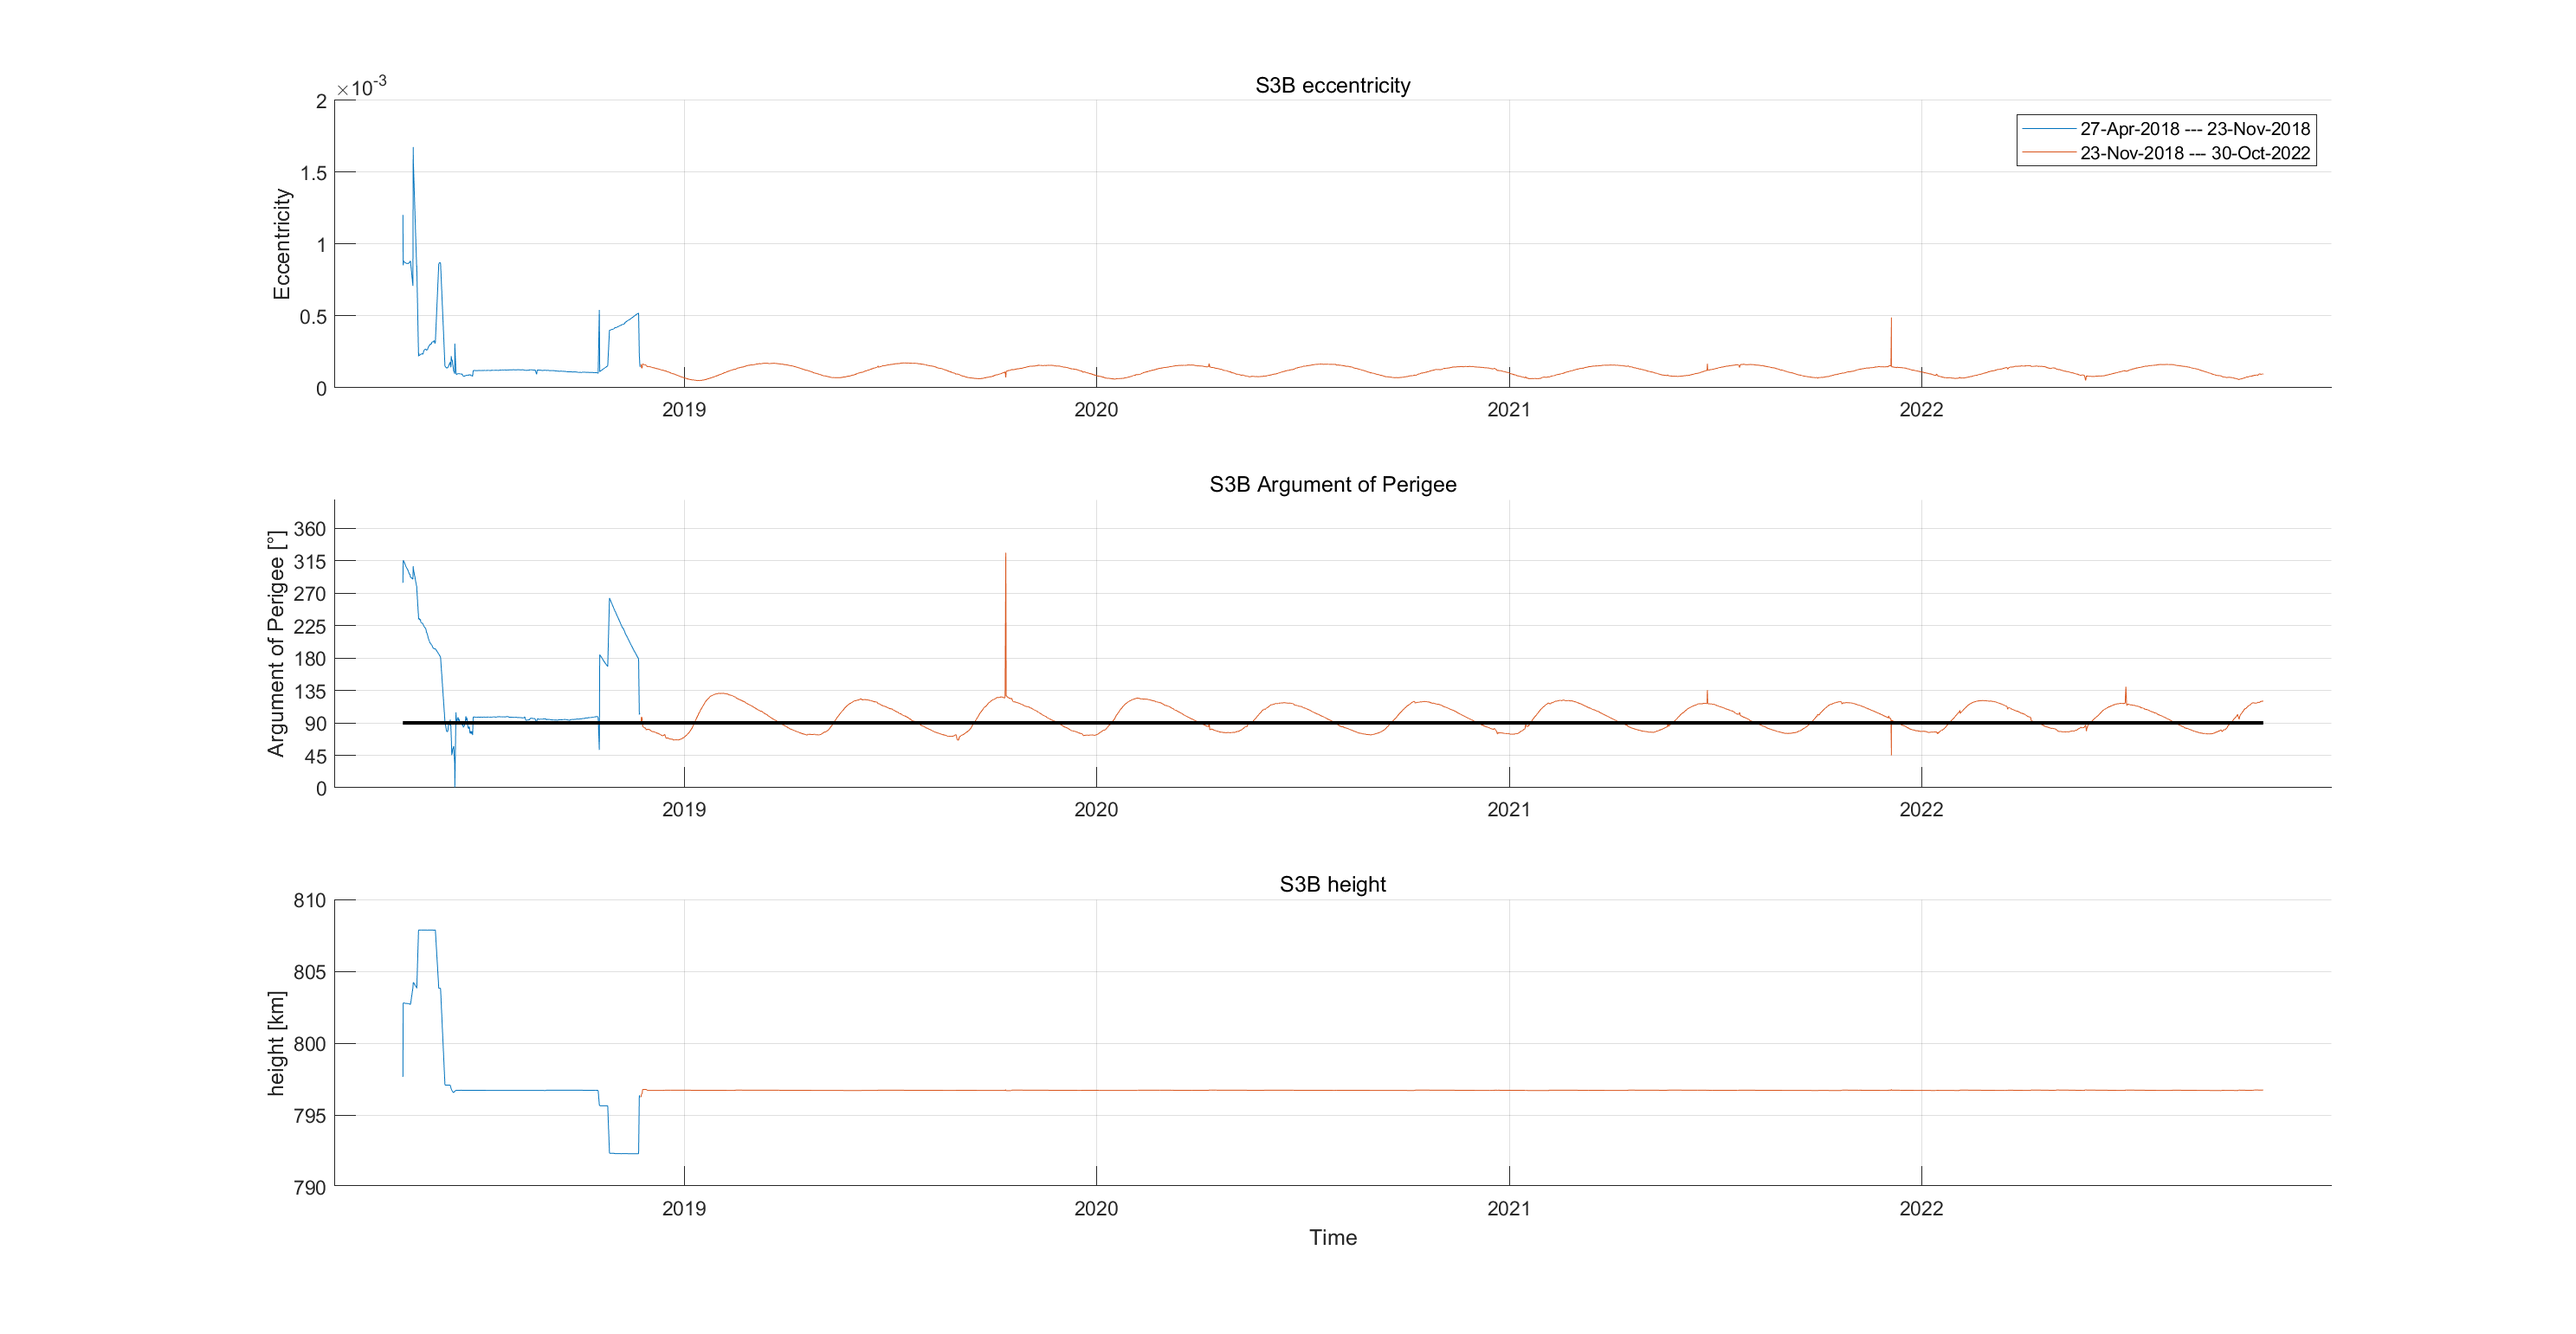
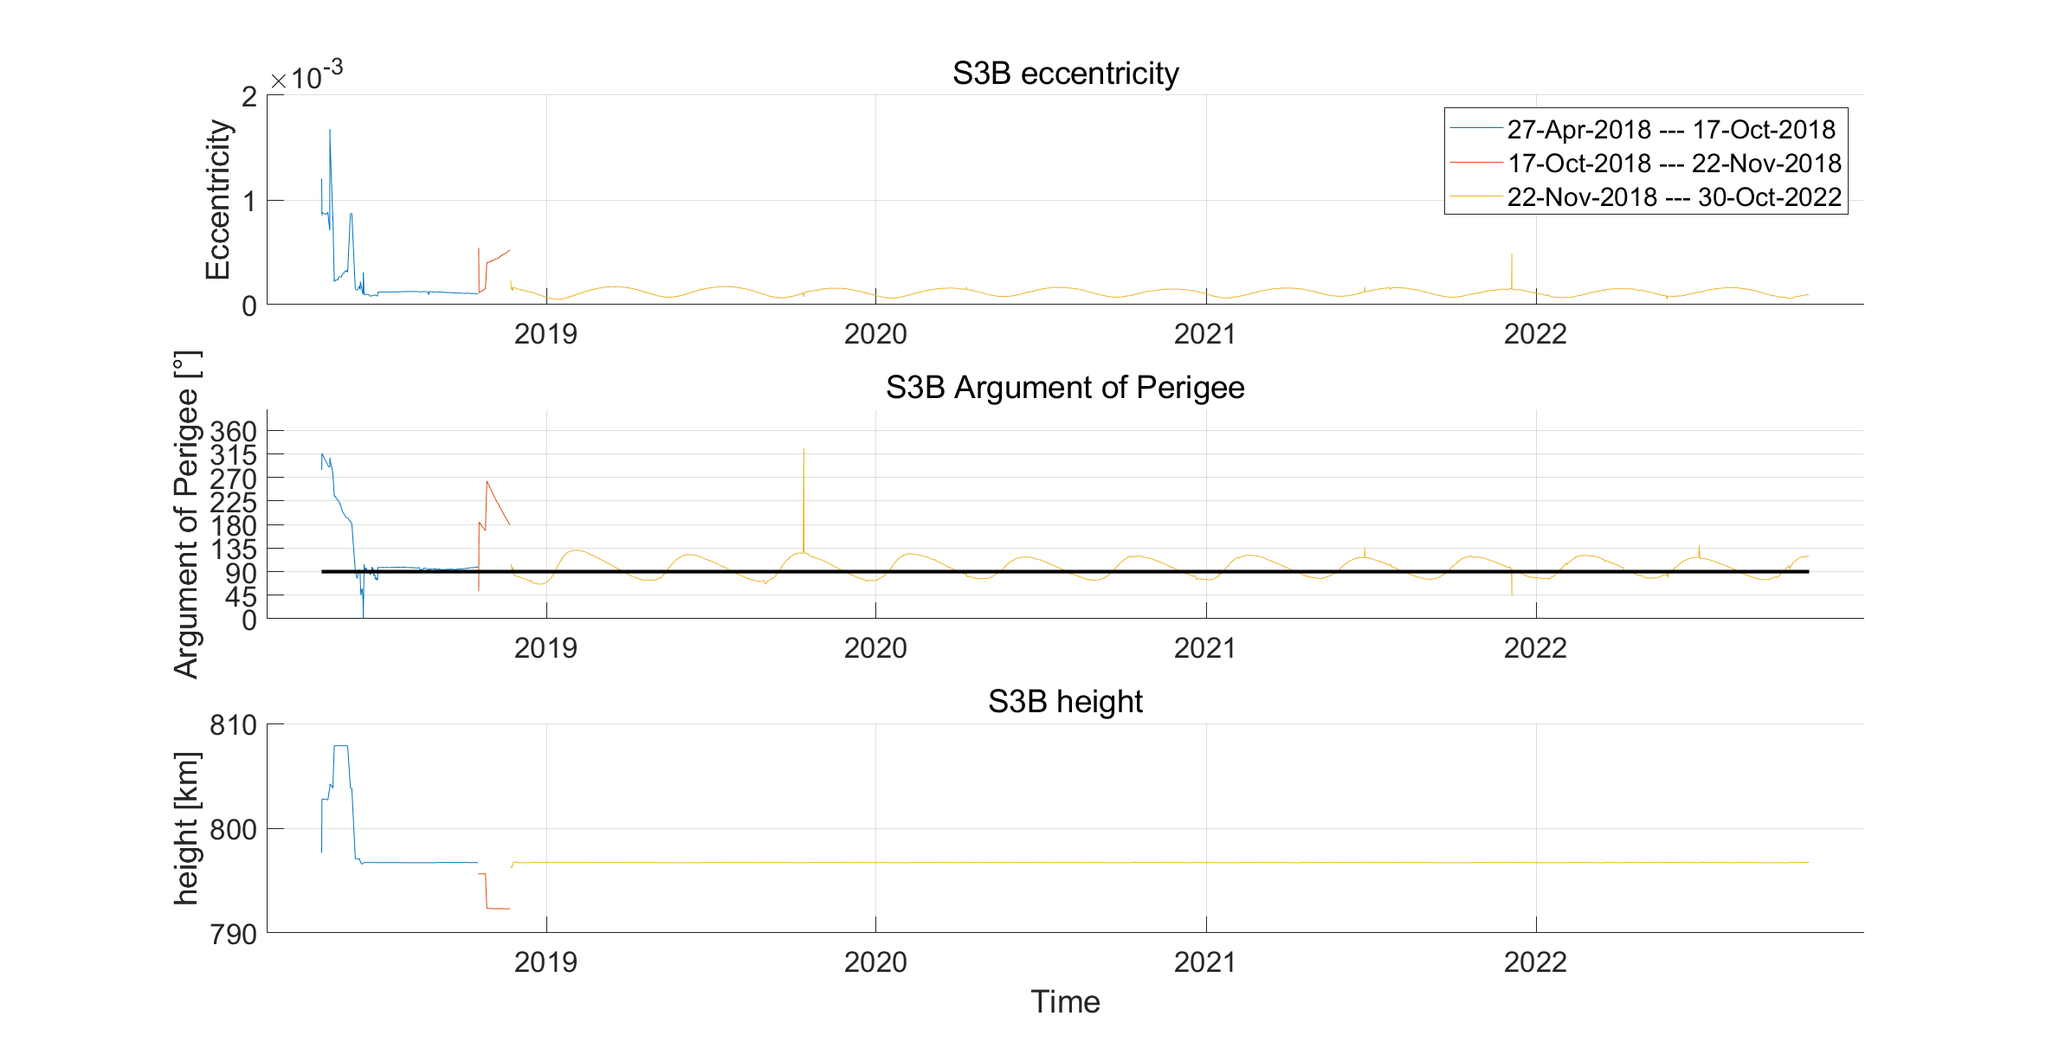
update the ppt and the related functions and images

diff --git a/TLE analyse/main.m b/TLE analyse/main.m
@@ -33,15 +33,15 @@ file_SWARM_C = "./data/SWARM_C.tle";
 data_SWARM_C = readtle(file_SWARM_C);
 
 %% Plot timeseries
-plotelement(data_GOCE,'GOCE',[735525])
+plotelement(data_GOCE,'GOCE',[])
 
 plotelement(data_CHAMP,'CHAMP',[731559,732759])
 
-plotelement(data_S3A,'S3A',[736522,738530])
+plotelement(data_S3A,'S3A',[datenum(2016,7,12),738530])
  
-plotelement(data_S3B,'S3B',[737387])
+plotelement(data_S3B,'S3B',[datenum(2018,10,17),datenum(2018,11,22)])
  
-plotelement(data_GRACE1,'GRACE 1',[736947])
+plotelement(data_GRACE1,'GRACE 1',[])
 
 plotelement(data_GRACE2,'GRACE 2',[])
 
@@ -52,15 +52,15 @@ plotelement(data_SWARM_B,'SWARM B',[735674,738597])
 plotelement(data_SWARM_C,'SWARM C',[735711])
 
 %% Plot eta and xi
-plotetaxi(data_GOCE,'GOCE',[735525])
+plotetaxi(data_GOCE,'GOCE',[])
 
 plotetaxi(data_CHAMP,'CHAMP',[731559,732759]) 
 
-plotetaxi(data_S3A,'S3A',[736522,738530])
+plotetaxi(data_S3A,'S3A',[datenum(2016,7,12),738530])
 
-plotetaxi(data_S3B,'S3B',[737387])
+plotetaxi(data_S3B,'S3B',[datenum(2018,10,17),datenum(2018,11,22)])
 
-plotetaxi(data_GRACE1,'GRACE 1',[736947])
+plotetaxi(data_GRACE1,'GRACE 1',[])
 
 plotetaxi(data_GRACE2,'GRACE 2',[])
 
@@ -71,7 +71,10 @@ plotetaxi(data_SWARM_B,'SWARM B',[735674,738597])
 plotetaxi(data_SWARM_C,'SWARM C',[735711])
 
 %% Compare S3A and S3B
-compare_timeseries({data_S3A,data_S3B},{'S3A','S3B'})
+t_s3a = datenum(2016,7,12);
+t_s3b = datenum(2018,11,22);
+compare_timeseries_sentinel({data_S3A,data_S3B},{'S3A','S3B'},[t_s3a,t_s3b])
 
 %% Compare Swarm A,B,C
-compare_timeseries({data_SWARM_A,data_SWARM_B,data_SWARM_C},{'SWARM-A','SWARM-B','SWARM-C'})
+compare_timeseries_swarm({data_SWARM_A,data_SWARM_B,data_SWARM_C},...
+    {'SWARM-A','SWARM-B','SWARM-C'},[])

diff --git a/TLE analyse/compare_timeseries_sentinel.m b/TLE analyse/compare_timeseries_sentinel.m
@@ -1,4 +1,4 @@
-function [] = compare_timeseries(data_list,name_list)
+function [] = compare_timeseries_sentinel(data_list,name_list,commossion_time)
 % 
 
 % get the x limit
@@ -29,12 +29,13 @@ fig1 = figure;
 subplot(3,1,1)
 hold on
 for j=1:length(data_list)
-    plot(data_list{j}.time,data_list{j}.e)
+    id = data_list{j}.time>commossion_time(j);
+    plot(data_list{j}.time(id),data_list{j}.e(id))
 end
 title([name,' eccentricity'])
 ylabel('Eccentricity','FontSize',2)
 legend(name_list)
-set(gca,'FontSize',11)
+set(gca,'FontSize',16)
 datetick('x')
 grid on
 xlim([xmin,xmax])
@@ -43,12 +44,13 @@ xlim([xmin,xmax])
 subplot(3,1,3)
 hold on
 for j=1:length(data_list)
-    plot(data_list{j}.time,data_list{j}.a/1000-6371)
+    id = data_list{j}.time>commossion_time(j);
+    plot(data_list{j}.time(id),data_list{j}.a(id)/1000-6371)
 end
 title([name,' height'])
 xlabel('Time')
 ylabel('height [km]')
-set(gca,'FontSize',11)
+set(gca,'FontSize',16)
 datetick('x')
 grid on
 xlim([xmin,xmax])
@@ -57,17 +59,19 @@ xlim([xmin,xmax])
 subplot(3,1,2)
 hold on
 for j=1:length(data_list)
-    plot(data_list{j}.time,data_list{j}.AoP)
+    id = data_list{j}.time>commossion_time(j);
+    plot(data_list{j}.time(id),data_list{j}.AoP(id))
 end
 plot([xmin,xmax],ones(2,1)*90,"LineWidth",2,'color','k') % plot the 90 degree line
 title([name,' Argument of Perigee'])
 ylabel('Argument of Perigee [°]')
 yticks([0 90 180 270 360])
-set(gca,'FontSize',11)
+set(gca,'FontSize',16)
 datetick('x')
 grid on
 yticks(0:45:360)
 xlim([xmin,xmax])
+
 
 % save the plot
 set(gcf,'units','normalized','outerposition',[0 0 1 1])

diff --git a/TLE analyse/compare_timeseries_swarm.m b/TLE analyse/compare_timeseries_swarm.m
@@ -1,0 +1,76 @@
+function [] = compare_timeseries_swarm(data_list,name_list,commossion_time)
+% 
+
+% get the x limit
+xmax = 0;
+xmin = 1e50;
+for j=1:length(data_list)
+    if  data_list{j}.time(1)<xmin
+        xmin = data_list{j}.time(1);
+    end
+    if data_list{j}.time(end)>xmax
+        xmax = data_list{j}.time(end);
+    end
+end
+xmin = xmin - 60;
+xmax = xmax + 60;
+
+% get the title
+name ='';
+for i=1:length(name_list)
+    name = [name,',',name_list{i}];
+end
+name = name(2:end);
+
+% well, just do some plotting things
+fig1 = figure;
+
+% e
+subplot(3,1,1)
+hold on
+for j=1:length(data_list)
+    plot(data_list{j}.time,data_list{j}.e)
+end
+title([name,' eccentricity'])
+ylabel('Eccentricity','FontSize',2)
+legend(name_list)
+set(gca,'FontSize',16)
+datetick('x')
+grid on
+xlim([xmin,xmax])
+
+% height
+subplot(3,1,3)
+hold on
+for j=1:length(data_list)
+    plot(data_list{j}.time,data_list{j}.a/1000-6371)
+end
+title([name,' height'])
+xlabel('Time')
+ylabel('height [km]')
+set(gca,'FontSize',16)
+datetick('x')
+grid on
+xlim([xmin,xmax])
+
+% AoP
+subplot(3,1,2)
+hold on
+for j=1:length(data_list)
+    plot(data_list{j}.time,data_list{j}.AoP)
+end
+plot([xmin,xmax],ones(2,1)*90,"LineWidth",2,'color','k') % plot the 90 degree line
+title([name,' Argument of Perigee'])
+ylabel('Argument of Perigee [°]')
+yticks([0 90 180 270 360])
+set(gca,'FontSize',16)
+datetick('x')
+grid on
+yticks(0:45:360)
+xlim([xmin,xmax])
+
+
+% save the plot
+set(gcf,'units','normalized','outerposition',[0 0 1 1])
+saveas(fig1,['img/element_',name],"png")
+end

diff --git a/TLE analyse/plotelement.m b/TLE analyse/plotelement.m
@@ -23,7 +23,7 @@ end
 title([name,' eccentricity'])
 ylabel('Eccentricity','FontSize',2)
 legend(legende)
-set(gca,'FontSize',11)
+set(gca,'FontSize',16)
 datetick('x')
 grid on
 xlim([xmin,xmax])
@@ -38,7 +38,7 @@ end
 title([name,' height'])
 xlabel('Time')
 ylabel('height [km]')
-set(gca,'FontSize',11)
+set(gca,'FontSize',16)
 datetick('x')
 grid on
 xlim([xmin,xmax])
@@ -54,7 +54,7 @@ plot(data.time,ones(length(data.time),1)*90,"LineWidth",2,'color','k')
 title([name,' Argument of Perigee'])
 ylabel('Argument of Perigee [°]')
 yticks([0 90 180 270 360])
-set(gca,'FontSize',11)
+set(gca,'FontSize',16)
 datetick('x')
 grid on
 yticks(0:45:360)

diff --git a/Presentation/thing_to_note.md b/Presentation/thing_to_note.md
@@ -1,5 +1,7 @@
 1. Sentinel 3B has completed the commissioning phse at 25 April 2018 which is the end of the 'sink' in the plots. Still, I don't know how they did it ---> check the commissioning phase operation.
 
-2. Due to the subtle difference in altitude and inclination, the Swarm B orbit drifts slowly away from the Swarm A/C orbits at a rate of about 24°/year (difference in longitude of the ascending node). In October 2021, the orbital planes realigned, Swarm B counter-rotating with respect to Swarm A and C. To maximise the scientific return of this conjunction, the Swarm A and C satellites were brought back into the same orbital plane, starting with a manoeuvre in October 2019 that would slowly reduce the separation in longitude, achieving a perfect alignment at the exact time of the conjunction with Swarm B. During the conjunction, the distance between the Swarm A and C satellites was reduced to only 2 s along the orbit (15 km), which was previously kept between 4–10 s for safety reasons. Source: https://earth.esa.int/eogateway/missions/swarm/description 
+2. S3A commissioning phase: https://sentinels.copernicus.eu/web/sentinel/missions/sentinel-3/operations-ramp-up-phase
 
-3. Swarm orbit raising news: https://earth.esa.int/eogateway/eogateway/missions/swarm/constellation-and-orbit-evolution
+3. Due to the subtle difference in altitude and inclination, the Swarm B orbit drifts slowly away from the Swarm A/C orbits at a rate of about 24°/year (difference in longitude of the ascending node). In October 2021, the orbital planes realigned, Swarm B counter-rotating with respect to Swarm A and C. To maximise the scientific return of this conjunction, the Swarm A and C satellites were brought back into the same orbital plane, starting with a manoeuvre in October 2019 that would slowly reduce the separation in longitude, achieving a perfect alignment at the exact time of the conjunction with Swarm B. During the conjunction, the distance between the Swarm A and C satellites was reduced to only 2 s along the orbit (15 km), which was previously kept between 4–10 s for safety reasons. Source: https://earth.esa.int/eogateway/missions/swarm/description 
+
+4. Swarm orbit raising news: https://earth.esa.int/eogateway/eogateway/missions/swarm/constellation-and-orbit-evolution
